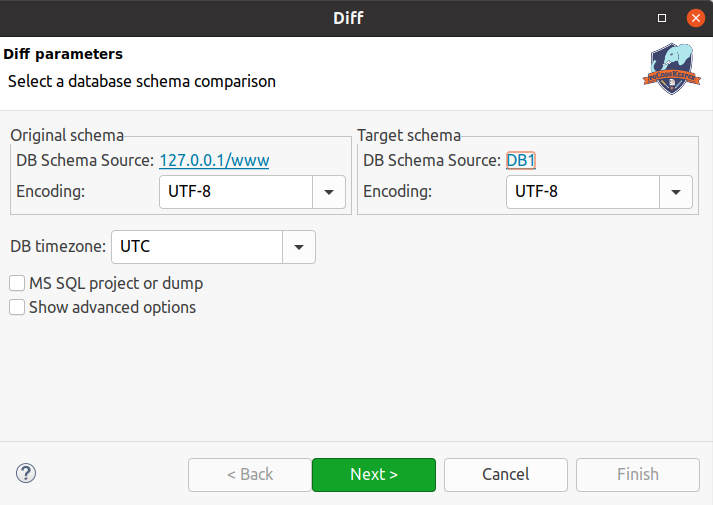
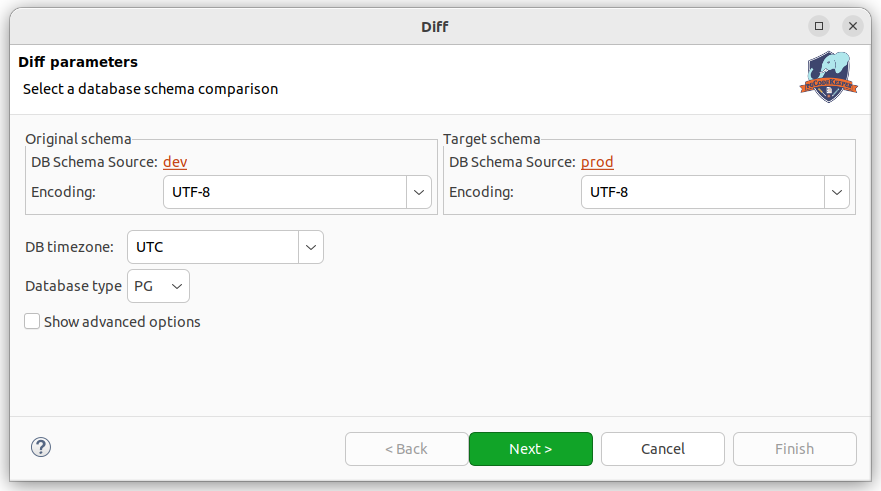
PGCK-255 updated docs (#70)
updated docs

Changed region(s): [[0.0, 0.0, 1.0, 1.0]]

diff --git a/docs/diff.rst b/docs/diff.rst
@@ -8,7 +8,7 @@
 
 - Выбираем источник исходной схемы базы данных, которую нужно обновить, и целевой схемы базы данных, на основании которой обновляем исходную базу данных.
 - Выбираем кодировки источников и временную зону БД.
-- При использовании проекта или дампа MS SQL, выбираем соответствующую опцию.
+- Выбираем тип БД **Database type / Тип базы данных**.
 - При необходимости переопределить глобальные настройки можно воспользоваться опцией **Show advanced options / Показать дополнительные опции**.
 - Нажимаем кнопку **Next**.
 

diff --git a/docs/import_project.rst b/docs/import_project.rst
@@ -18,7 +18,7 @@
 .. image:: ../images/import_project_dialog.png
 
 3. Укажите путь до директории со структурой проекта pgCodeKeeper, введите имя проекта и выберите его кодировку.
-4. Если импортируемый проект для MS SQL, то необходимо выбрать соответствующую опцию.
+4. Выбираем тип базы данных для импортируемого проекта **Database type / Тип базы данных**.
 5. Для добавления проекта в рабочую область, можно выбрать соответствующую опцию.
 6. Нажмите **Finish**.
 
